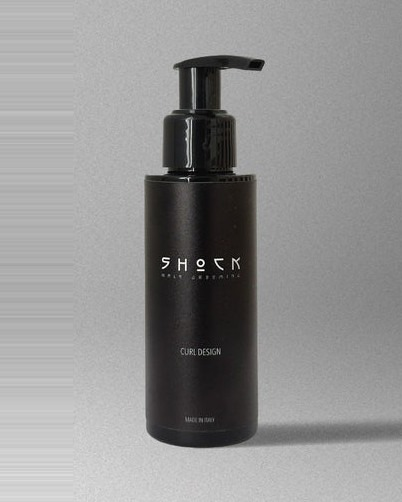
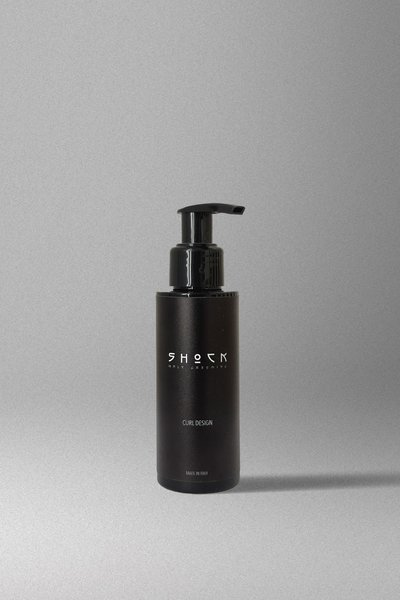
SHOCK: foto prodotti aggiornate da shockmalegrooming.com, ottimizzate per web (25-44KB)

Changed region(s): [[0.36, 0.0896, 1.0, 0.8964]]

diff --git a/index.html b/index.html
@@ -442,22 +442,22 @@
       </div>
       <div class="product-grid">
         <a class="product-card reveal" href="https://shockmalegrooming.com#prodotti" target="_blank" rel="noopener">
-          <img class="product-img" src="https://cdn.shopify.com/s/files/1/0554/8320/3759/files/36E4B50E-1323-42BB-B7E7-650786DFFE99.png" alt="SHOCK Matt Paste" loading="lazy" /><h3>Matt Paste</h3><p>Tenuta forte, effetto opaco mat</p><span class="product-cta">Acquista · €19 →</span>
+          <img class="product-img" src="assets/products/matt-paste.jpg?v=4" alt="SHOCK Matt Paste" loading="lazy" /><h3>Matt Paste</h3><p>Tenuta forte, effetto opaco mat</p><span class="product-cta">Acquista · €19 →</span>
         </a>
         <a class="product-card reveal" href="https://shockmalegrooming.com#prodotti" target="_blank" rel="noopener">
-          <img class="product-img" src="https://cdn.shopify.com/s/files/1/0554/8320/3759/files/DB841FAE-A607-434E-B2F9-B5CA7236E5D6.jpg" alt="SHOCK Sea Salt Spray" loading="lazy" /><h3>Sea Salt Spray</h3><p>Texture naturale, effetto spiaggia</p><span class="product-cta">Acquista · €21 →</span>
+          <img class="product-img" src="assets/products/sea-salt-spray.jpg?v=4" alt="SHOCK Sea Salt Spray" loading="lazy" /><h3>Sea Salt Spray</h3><p>Texture naturale, effetto spiaggia</p><span class="product-cta">Acquista · €21 →</span>
         </a>
         <a class="product-card reveal" href="https://shockmalegrooming.com#prodotti" target="_blank" rel="noopener">
-          <img class="product-img" src="https://cdn.shopify.com/s/files/1/0554/8320/3759/files/02300A3C-06FE-47B8-99C6-E02B93B49F1E.png" alt="SHOCK Beard Oil" loading="lazy" /><h3>Beard Oil</h3><p>100% naturale, profumo maschile persistente</p><span class="product-cta">Acquista · €19 →</span>
+          <img class="product-img" src="assets/products/beard-oil.jpg?v=4" alt="SHOCK Beard Oil" loading="lazy" /><h3>Beard Oil</h3><p>100% naturale, profumo maschile persistente</p><span class="product-cta">Acquista · €19 →</span>
         </a>
         <a class="product-card reveal" href="https://shockmalegrooming.com#prodotti" target="_blank" rel="noopener">
-          <img class="product-img" src="https://cdn.shopify.com/s/files/1/0554/8320/3759/files/BB31D282-BD04-42CB-8FEE-6BDDC6A46612.jpg" alt="SHOCK Shine Wax" loading="lazy" /><h3>Shine Wax</h3><p>Look lucido ed elegante, fissaggio medio</p><span class="product-cta">Acquista · €20 →</span>
+          <img class="product-img" src="assets/products/shine-wax.jpg?v=4" alt="SHOCK Shine Wax" loading="lazy" /><h3>Shine Wax</h3><p>Look lucido ed elegante, fissaggio medio</p><span class="product-cta">Acquista · €20 →</span>
         </a>
         <a class="product-card reveal" href="https://shockmalegrooming.com#prodotti" target="_blank" rel="noopener">
-          <img class="product-img" src="https://cdn.shopify.com/s/files/1/0554/8320/3759/files/787DD52F-4B11-4EF7-8770-8B924AC7483D.png" alt="SHOCK Powder" loading="lazy" /><h3>Powder</h3><p>Volume e definizione istantanei</p><span class="product-cta">Acquista · €22 →</span>
+          <img class="product-img" src="assets/products/powder.jpg?v=4" alt="SHOCK Powder" loading="lazy" /><h3>Powder</h3><p>Volume e definizione istantanei</p><span class="product-cta">Acquista · €22 →</span>
         </a>
         <a class="product-card reveal" href="https://shockmalegrooming.com#prodotti" target="_blank" rel="noopener">
-          <img class="product-img" src="https://cdn.shopify.com/s/files/1/0554/8320/3759/files/A178A866-A5E0-4FA0-B706-DB7ED9E49E9E.jpg" alt="SHOCK Curl Design" loading="lazy" /><h3>Curl Design</h3><p>Ricci definiti e morbidi, controllo totale</p><span class="product-cta">Acquista · €20 →</span>
+          <img class="product-img" src="assets/products/curl-design.jpg?v=4" alt="SHOCK Curl Design" loading="lazy" /><h3>Curl Design</h3><p>Ricci definiti e morbidi, controllo totale</p><span class="product-cta">Acquista · €20 →</span>
         </a>
       </div>
       <div class="center reveal"><a href="https://shockmalegrooming.com" target="_blank" rel="noopener" class="btn btn-ghost">Tutti i prodotti SHOCK</a></div>
